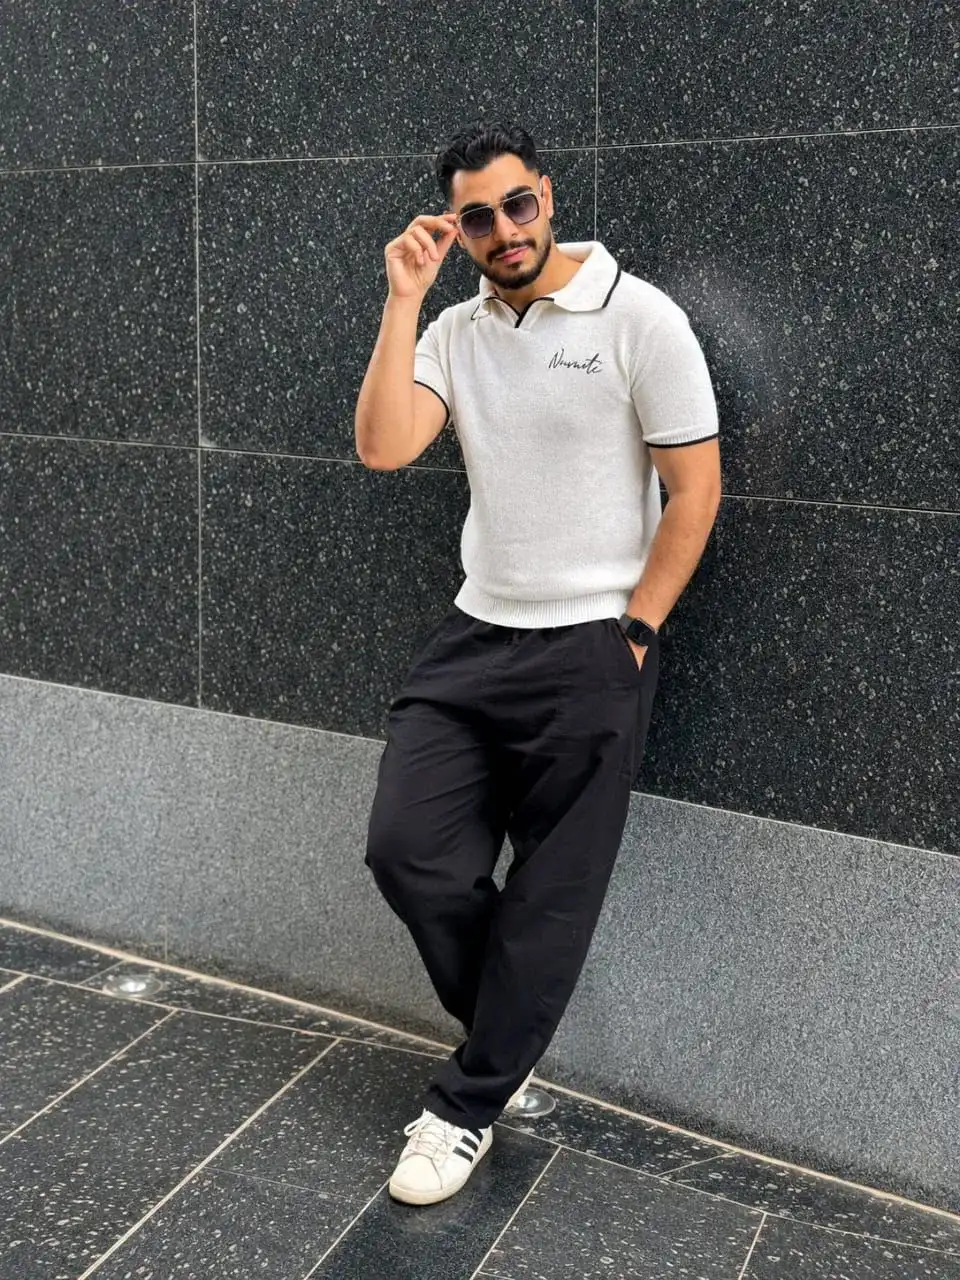
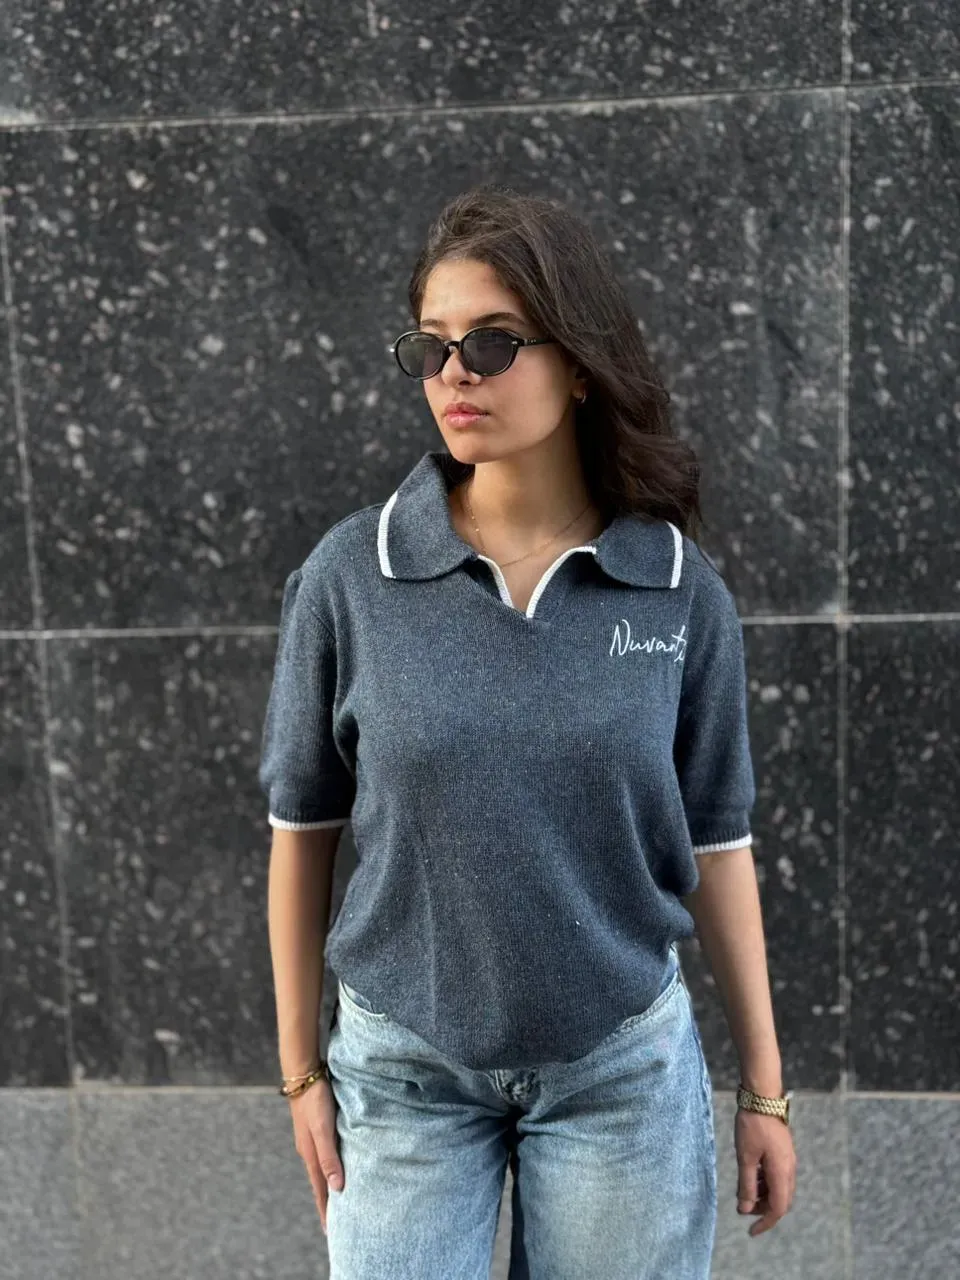
add projects photo

diff --git a/script.js b/script.js
@@ -13,10 +13,19 @@ const projects = [
       "Cloudflare",
       "Supabase",
     ],
-    link: "https://nuvanti.wuiltstore.com/en",
+    link: "https://nuvanti-shop.pages.dev/",
     linkLabel: "Visit storefront",
     visual: "nuvanti",
-    visualLabel: "Nuvanti / Commerce, considered",
+    visualLabel: "Nuvanti / Storefront and commerce tools",
+    screenshots: [
+      { src: "assets/projects/nuvanti/nuvanti-homepage.png", alt: "Nuvanti storefront homepage featuring the clothing brand", caption: "Storefront / Homepage" },
+      { src: "assets/projects/nuvanti/nuvanti-featured-products.png", alt: "Nuvanti featured clothing collection page", caption: "Storefront / Featured collection" },
+      { src: "assets/projects/nuvanti/nuvanti-shop-all.png", alt: "Nuvanti shop all page with clothing products", caption: "Storefront / Shop all" },
+      { src: "assets/projects/nuvanti/nuvanti-collection-home.png", alt: "Nuvanti storefront collection and best sellers", caption: "Storefront / Collection" },
+      { src: "assets/projects/nuvanti/nuvanti-admin-dashboard.png", alt: "Nuvanti commerce admin dashboard with order and sales summaries", caption: "Commerce tools / Dashboard" },
+      { src: "assets/projects/nuvanti/nuvanti-storefront-settings.png", alt: "Nuvanti admin settings for storefront homepage content", caption: "Commerce tools / Storefront settings" },
+      { src: "assets/projects/nuvanti/nuvanti-product-inventory.png", alt: "Nuvanti product inventory management screen", caption: "Commerce tools / Product inventory" },
+    ],
     challenge:
       "Create a clear storefront and connected commerce workflows for a clothing brand.",
     approach:
@@ -46,7 +55,19 @@ const projects = [
     link: null,
     linkLabel: null,
     visual: "padel",
-    visualLabel: "PadelSync / Court availability",
+    visualLabel: "PadelSync / Booking and club management screens",
+    screenshots: [
+      { src: "assets/projects/padelsync/padelsync-homepage.png", alt: "PadelSync homepage for The Glass Court", caption: "PadelSync / Homepage" },
+      { src: "assets/projects/padelsync/padelsync-sign-in.png", alt: "PadelSync sign in page alongside a court photograph", caption: "Member access / Sign in" },
+      { src: "assets/projects/padelsync/padelsync-registration.png", alt: "PadelSync member registration page", caption: "Member access / Registration" },
+      { src: "assets/projects/padelsync/padelsync-member-welcome.png", alt: "PadelSync member welcome screen", caption: "Member area / Welcome" },
+      { src: "assets/projects/padelsync/padelsync-court-booking.png", alt: "PadelSync court booking details and availability screen", caption: "Reservations / Court booking" },
+      { src: "assets/projects/padelsync/padelsync-my-reservations.png", alt: "PadelSync member reservations page", caption: "Reservations / My reservations" },
+      { src: "assets/projects/padelsync/padelsync-admin-dashboard.png", alt: "PadelSync admin dashboard with court and booking summaries", caption: "Club tools / Dashboard" },
+      { src: "assets/projects/padelsync/padelsync-court-management.png", alt: "PadelSync admin court management screen", caption: "Club tools / Court management" },
+      { src: "assets/projects/padelsync/padelsync-schedule-management.png", alt: "PadelSync schedule and equipment order management", caption: "Club tools / Schedule" },
+      { src: "assets/projects/padelsync/padelsync-user-management.png", alt: "PadelSync administrator user management screen", caption: "Club tools / Users" },
+    ],
     challenge:
       "Help players find and reserve available courts while giving club staff tools to manage schedules.",
     approach:
@@ -69,13 +90,24 @@ const projects = [
     link: null,
     linkLabel: null,
     visual: "restaurant",
-    visualLabel: "Restaurant operations / Service flow",
+    visualLabel: "Juicy Lucy / Restaurant management screens",
+    screenshots: [
+      { src: "assets/projects/restaurant/restaurant-menu.png", alt: "Juicy Lucy restaurant menu and table management interface", caption: "Restaurant tools / Menu" },
+      { src: "assets/projects/restaurant/restaurant-menu-editor.png", alt: "Juicy Lucy menu item editing screen", caption: "Restaurant tools / Menu editor" },
+      { src: "assets/projects/restaurant/restaurant-order-builder.png", alt: "Juicy Lucy order building interface", caption: "Service / Build an order" },
+      { src: "assets/projects/restaurant/restaurant-reservation-form.png", alt: "Juicy Lucy reservation form for booking a table", caption: "Reservations / Booking form" },
+      { src: "assets/projects/restaurant/restaurant-profile.png", alt: "Juicy Lucy staff profile screen", caption: "Staff / Profile" },
+      { src: "assets/projects/restaurant/restaurant-checkout.png", alt: "Juicy Lucy restaurant checkout interface", caption: "Service / Checkout" },
+      { src: "assets/projects/restaurant/restaurant-order-management.png", alt: "Juicy Lucy restaurant order management screen", caption: "Operations / Orders" },
+      { src: "assets/projects/restaurant/restaurant-table-management.png", alt: "Juicy Lucy restaurant table management screen", caption: "Operations / Tables" },
+      { src: "assets/projects/restaurant/restaurant-order-details.png", alt: "Juicy Lucy restaurant order details screen", caption: "Service / Order details" },
+    ],
     challenge:
       "Staff need one workflow for guest bookings, available tables, meals, and checkout.",
     approach:
-      "The project brief describes table and menu management, guest reservations by table and time, meal selection, and a checkout screen.",
+      "The supplied screens cover table and menu management, guest reservations, meal selection, and checkout.",
     contribution:
-      "Project implementation described in the supplied brief. The repository contained no source files or screenshots to verify additional technologies or implementation details.",
+      "The supplied interface captures illustrate the restaurant workflows. Implementation details beyond the visible screens are unverified.",
     more: [],
   },
   {
@@ -119,12 +151,7 @@ list.innerHTML = projects
     <div class="project-top"><span class="mono project-number">${escapeHtml(project.number)} <i>—</i> ${escapeHtml(project.category)}</span></div>
     <div class="project-main">
       <div class="project-visual visual-${escapeHtml(project.visual)}">
-        ${project.visual === "nuvanti" ? `
-          <figure class="nuvanti-photo nuvanti-photo--primary"><img src="/assets/nuvanti-sweatpants.webp" alt="Nuvanti sweatpants product photography from the live store" loading="lazy" /><figcaption>NUV SWEATPANTS</figcaption></figure>
-          <figure class="nuvanti-photo"><img src="/assets/nuvanti-embroidered-top.webp" alt="Nuvanti embroidered top product photography from the live store" loading="lazy" /><figcaption>EMBROIDERED TOP</figcaption></figure>
-          <figure class="nuvanti-photo"><img src="/assets/nuvanti-polo.webp" alt="Nuvanti knitted polo product photography from the live store" loading="lazy" /><figcaption>KNITTED POLO</figcaption></figure>` : ""}
-        ${project.visual === "padel" ? `<div class="project-placeholder" role="img" aria-label="PadelSync project identity card; no project screenshots available"><span class="placeholder-kicker mono">PADELSYNC / MIU SWE230</span><h4 class="placeholder-title">Court<br />booking.</h4><span class="placeholder-note">Project screenshots unavailable<br />Four-student university project</span></div>` : ""}
-        ${project.visual === "restaurant" ? `<div class="project-placeholder project-placeholder--restaurant" role="img" aria-label="Restaurant Management System project identity card; no screenshots available"><span class="placeholder-kicker mono">JUICY LUCY / SYSTEMS PROJECT</span><h4 class="placeholder-title">Restaurant<br />operations.</h4><span class="placeholder-note">Project screenshots unavailable<br />Reservations · tables · menu · checkout</span></div>` : ""}
+        ${project.screenshots ? `<div class="project-gallery" aria-label="${escapeHtml(project.visualLabel)}">${project.screenshots.slice(0, 3).map((photo, index) => `<figure class="project-gallery-item${index === 0 ? " project-gallery-item--lead" : ""}"><img src="/${escapeHtml(photo.src)}" alt="${escapeHtml(photo.alt)}" loading="lazy" /><figcaption>${escapeHtml(photo.caption)}</figcaption></figure>`).join("")}${project.screenshots.length > 3 ? `<details class="gallery-more"><summary>View all ${project.screenshots.length} screenshots <span aria-hidden="true">＋</span></summary><div class="project-gallery project-gallery--more">${project.screenshots.slice(3).map((photo) => `<figure class="project-gallery-item"><img src="/${escapeHtml(photo.src)}" alt="${escapeHtml(photo.alt)}" loading="lazy" /><figcaption>${escapeHtml(photo.caption)}</figcaption></figure>`).join("")}</div></details>` : ""}</div>` : ""}
         ${project.visual === "inventory" ? `<div class="project-placeholder project-placeholder--inventory" role="img" aria-label="Inventory and Sales Tracker project identity card; no screenshots available"><span class="placeholder-kicker mono">ACADEMIC PROJECT / C++</span><h4 class="placeholder-title">Inventory<br />& sales.</h4><span class="placeholder-note">Project screenshots unavailable<br />Product and transaction tracking</span></div>` : ""}
       </div>
       <div class="project-copy"><h3>${escapeHtml(project.name)}</h3><p class="project-description">${escapeHtml(project.description)}</p>

diff --git a/styles.css b/styles.css
@@ -320,3 +320,22 @@ button { font: inherit; }
   .project--02 .project-visual,.project--03 .project-visual,.project--04 .project-visual { min-height: 300px; }
   .project--03 .project-copy { padding: 8px 0 0; }
 }
+
+/* Supplied project screenshot galleries */
+.project--01 .project-visual,.project--02 .project-visual,.project--03 .project-visual { width: 100%; min-height: 0; display: block; padding: 0; overflow: visible; background: transparent; }
+.project-gallery { display: grid; grid-template-columns: repeat(2,minmax(0,1fr)); gap: 10px; }
+.project-gallery-item { position: relative; min-width: 0; aspect-ratio: 1.9 / 1; margin: 0; overflow: hidden; background: #20231e; }
+.project-gallery-item--lead { grid-column: 1 / -1; aspect-ratio: 2.2 / 1; }
+.project-gallery-item img { display: block; width: 100%; height: 100%; object-fit: contain; }
+.project-gallery-item figcaption { position: absolute; right: 0; bottom: 0; left: 0; padding: 14px 12px 9px; color: #fff; background: linear-gradient(transparent,#111310d9); font: 7px var(--mono); letter-spacing: .08em; }
+.gallery-more { grid-column: 1 / -1; border-top: 1px solid var(--line); border-bottom: 1px solid var(--line); }
+.gallery-more summary { display: flex; justify-content: space-between; align-items: center; gap: 12px; padding: 12px 0; color: var(--green); font: 8px var(--mono); letter-spacing: .05em; cursor: pointer; list-style: none; }
+.gallery-more summary::-webkit-details-marker { display: none; }
+.gallery-more summary span { font-size: 14px; transition: transform .2s; }
+.gallery-more[open] summary span { transform: rotate(45deg); }
+.project-gallery--more { padding-bottom: 10px; }
+@media (max-width: 640px) {
+  .project-gallery { grid-template-columns: 1fr; gap: 7px; }
+  .project-gallery-item,.project-gallery-item--lead { aspect-ratio: 1.9 / 1; }
+  .gallery-more { grid-column: 1; }
+}

diff --git a/index.html b/index.html
@@ -62,7 +62,7 @@
           </div>
           <figure class="hero-visual reveal">
             <img src="/assets/nuvanti-storefront.webp" alt="Models wearing Nuvanti clothing from the live storefront homepage." fetchpriority="high" width="1200" height="1600" />
-            <figcaption class="hero-image-note"><span class="mono">NUVANTI / LIVE STOREFRONT</span><a class="mono" href="https://nuvanti.wuiltstore.com/en" target="_blank" rel="noreferrer">VISIT SITE ↗</a></figcaption>
+            <figcaption class="hero-image-note"><span class="mono">NUVANTI / LIVE STOREFRONT</span><a class="mono" href="https://nuvanti-shop.pages.dev/" target="_blank" rel="noreferrer">VISIT SITE ↗</a></figcaption>
           </figure>
         </div>
         <a class="scroll-cue mono" href="#work"><span class="scroll-line"></span>SCROLL TO EXPLORE</a>

diff --git a/README.md b/README.md
@@ -2,7 +2,7 @@
 
 A lightweight, editorial portfolio built with semantic HTML, CSS, and vanilla JavaScript. There is no build step or runtime dependency. Project content is maintained in the `projects` array near the top of `script.js`.
 
-The hero and Nuvanti gallery use genuine product photography observed on the live [Nuvanti storefront](https://nuvanti.wuiltstore.com/en). The files are local copies so the portfolio does not depend on the store's image host to load them. PadelSync, Restaurant Management System, and Inventory & Sales Tracker are presented with project identity cards because no verified screenshots for them were available in the repository or accessible project pages. Those cards are not interface screenshots. ARQEVIN remains a separate company venture.
+The hero uses product photography from the live [Nuvanti site](https://nuvanti-shop.pages.dev/). The Nuvanti, PadelSync, and Restaurant Management System sections use screenshots supplied for this portfolio, stored locally under `assets/projects/`; each gallery shows three captures initially and lets visitors expand the rest. The restaurant gallery omits one supplied image that shows source code rather than the interface. Inventory & Sales Tracker remains a project identity card because no screenshots were supplied for it. ARQEVIN remains a separate company venture.
 
 ## Run locally
 
